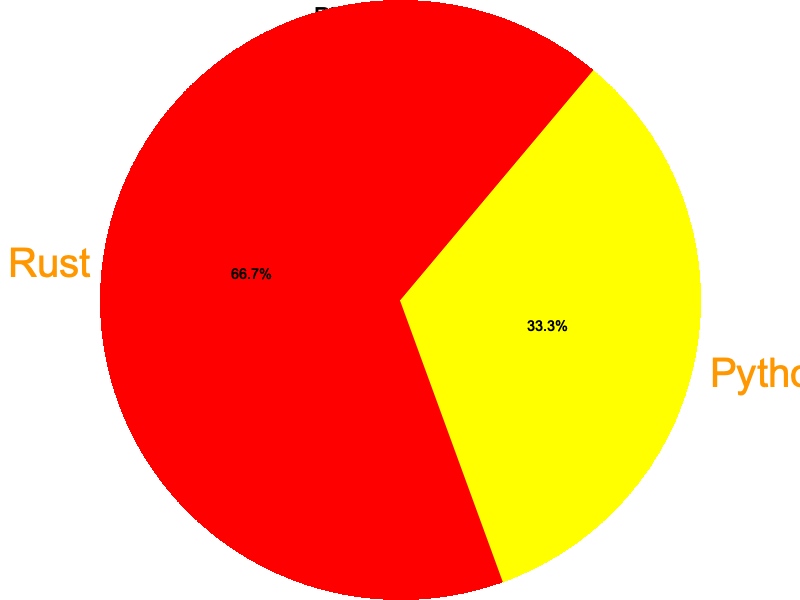
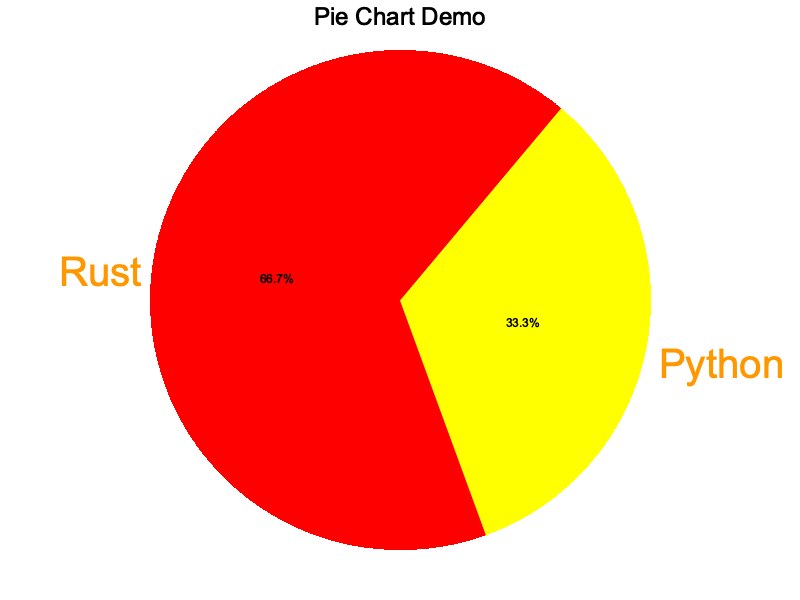
Added Pie chart

Changed region(s): [[0.0, 0.0, 1.0, 1.0], [0.625, 0.51, 0.7188, 0.57], [0.2812, 0.45, 0.375, 0.48]]

diff --git a/Data_visualization/pie-chart/src/main.rs b/Data_visualization/pie-chart/src/main.rs
@@ -9,7 +9,7 @@ fn main() -> Result<(), Box<dyn std::error::Error>> {
 
     let dimensions = root.dim_in_pixel();
     let center = (dimensions.0 as i32 / 2, dimensions.1 as i32 / 2);
-    let radius = 300.0;
+    let radius = 250.0;
     let sizes = vec![70.0, 35.0];
     let colors = vec![RED, YELLOW];
     let labels = vec!["Rust", "Python"];
